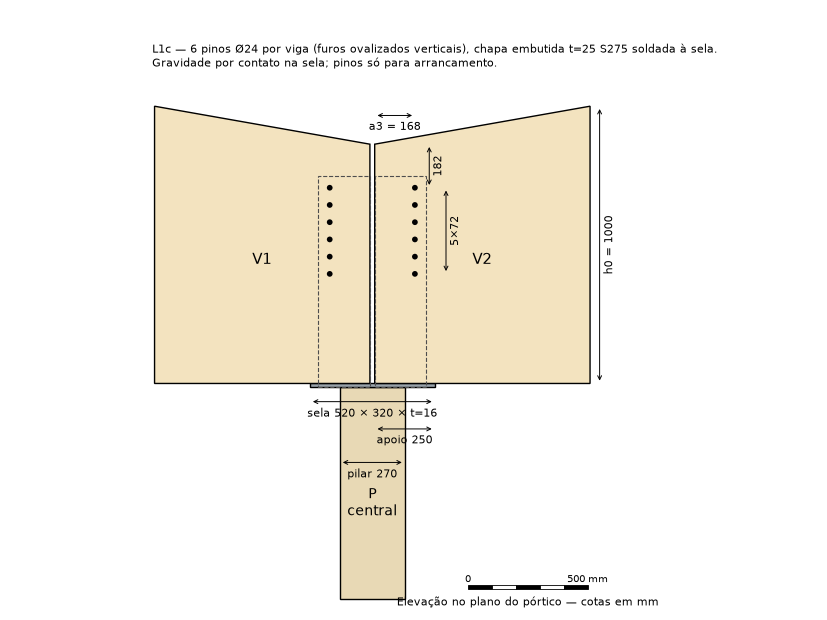
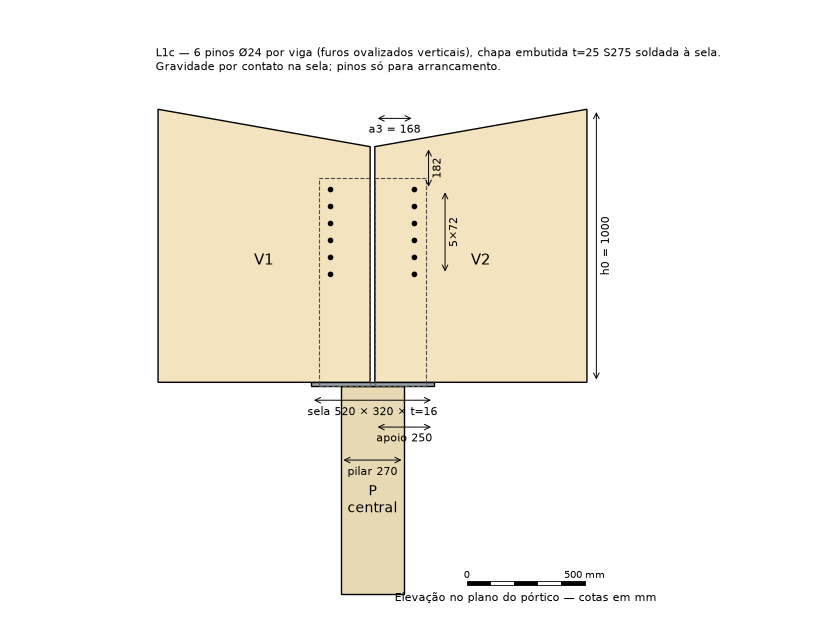
Registrar a versao v1.0-monografia nas saidas da tese
Saidas regeneradas pelo pipeline com o codigo etiquetado em
v1.0-monografia: o Apendice A registra o commit da etiqueta.

diff --git a/tese/valores_pipeline.tex b/tese/valores_pipeline.tex
@@ -24,10 +24,10 @@
 \newcommand{\custoMassaAco}{6.430}
 \newcommand{\custoPctVolMin}{57}
 \newcommand{\custoDifVolMin}{506}
-\newcommand{\versaoCommit}{19e7dcbe4e}
-\newcommand{\versaoData}{2026-10-09}
-\newcommand{\versaoTag}{sem etiqueta}
-\newcommand{\versaoEstado}{com 178 arquivos alterados ainda não registrados}
+\newcommand{\versaoCommit}{ac0cca6ea5}
+\newcommand{\versaoData}{2026-11-15}
+\newcommand{\versaoTag}{v1.0-monografia}
+\newcommand{\versaoEstado}{sem alterações locais além das saídas regeneradas}
 \newcommand{\nCasosReferencia}{12}
 \newcommand{\nTestesIntegracao}{113}
 \newcommand{\nTestesUnitarios}{788}
